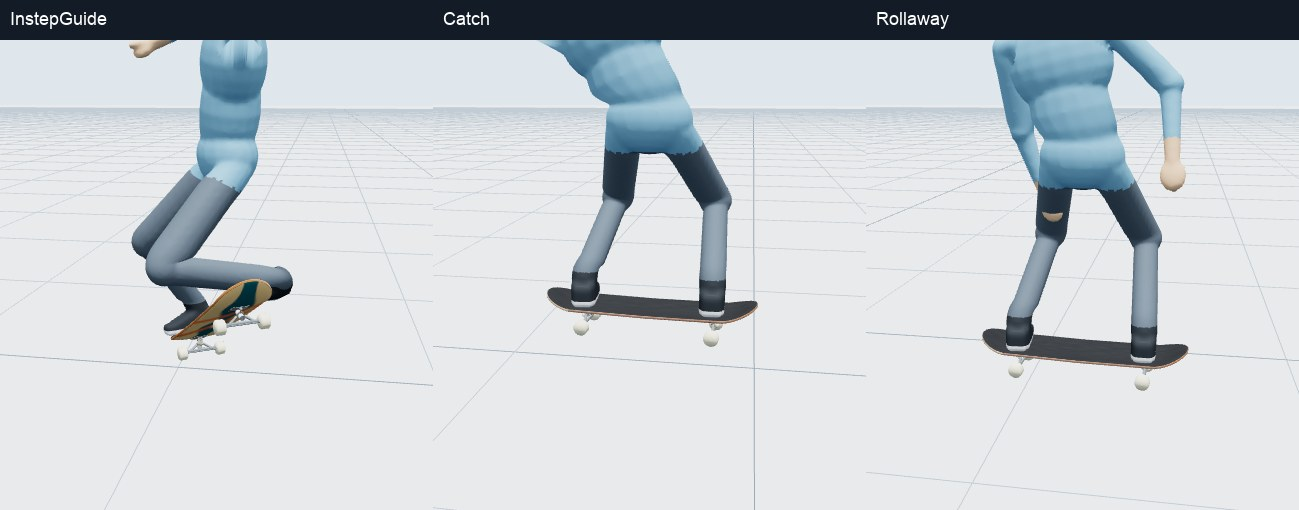
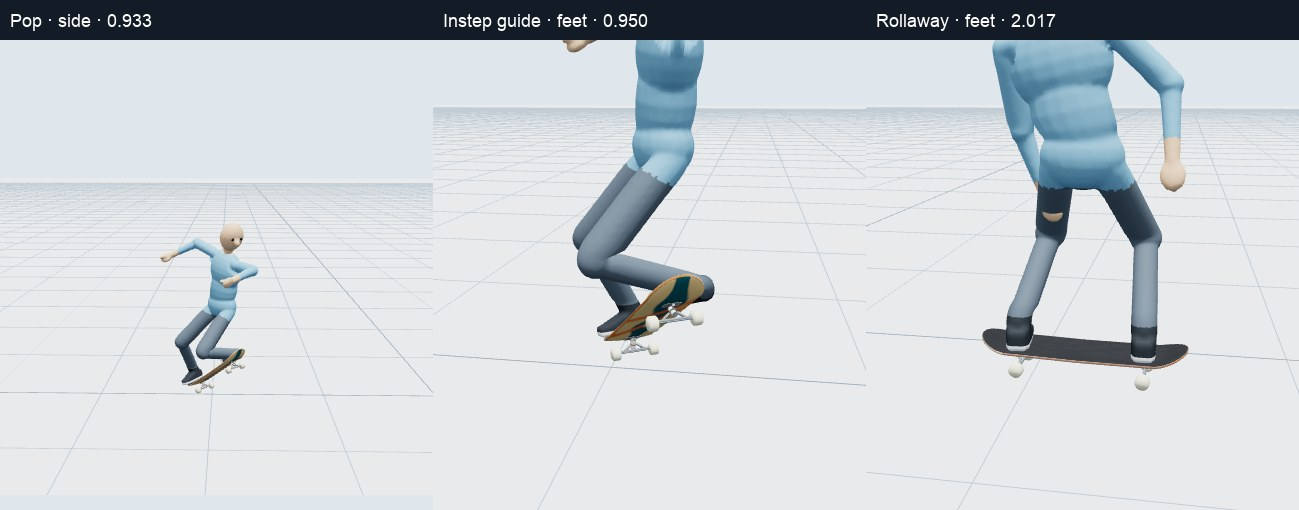
Refresh BS180 rig sheets for focused pop and wind-up review

diff --git a/docs/review-media/a2-bs180/README.md b/docs/review-media/a2-bs180/README.md
@@ -1,6 +1,6 @@
 # A2 normal BS180 — original rig review media
 
-[Private interactive comparison, 1× and ¼×](http://127.0.0.1:63761/a2-bs180/)
+[Private interactive comparison, 1× and ¼×](http://127.0.0.1:63761/a2-bs180-pop-arm/)
 uses the original rig, frozen skin and complete shaped thirteen-part skateboard.
 The source is the genuine plain normal Goofy BS180 by Wes Kremer in
 [The Berrics BATB6 Round1](https://www.youtube.com/watch?v=i8jPt6jHk98&t=44),
@@ -19,7 +19,9 @@ Air, Catch, actual Land, Rollaway and ordinary End.
 | Regular / anatomical Left foot leading | [Phase sheet](bs180-normal-physical-regular.jpg) | [Phase sheet](bs180-low-physical-regular.jpg) |
 | Goofy / anatomical Right foot leading | [Phase sheet](bs180-normal-physical-goofy.jpg) | [Phase sheet](bs180-low-physical-goofy.jpg) |
 
-| Physical mesh stance | Normal guide / catch / rollaway | Low guide / catch / rollaway |
+The contact sheets show a side-view Pop, then guide and rollaway foot details.
+
+| Physical mesh stance | Normal side pop / guide / rollaway | Low side pop / guide / rollaway |
 |---|---|---|
 | Regular | [Foot close-ups](bs180-normal-physical-regular-feet.jpg) | [Foot close-ups](bs180-low-physical-regular-feet.jpg) |
 | Goofy | [Foot close-ups](bs180-normal-physical-goofy-feet.jpg) | [Foot close-ups](bs180-low-physical-goofy-feet.jpg) |
@@ -41,16 +43,30 @@ in all four cases. The60Hz body retains36/36 normal-air frames and34/34 low-air
 frames, then reaches ordinary Ground at4s. The32 individual render phases
 come from those actual replay GLBs, with no render-only pose edits. Test-only
 approval and generated models remain private; raw `reviewed=false` is retained.
-The private browser review reaches4s at both1× and¼× in all four cases;
-28 phase selections use live decoded source video, and12 guide/catch/rollaway
-foot views have no browser runtime errors. Self-inspection confirms a loaded
-ground pose, an airborne rider/board half-turn with the board near the shoes,
-a bent-knee actual landing and ordinary upright recovery. These checks do
-not promote the pack or replace Claude's independent visual judgement.
+Root's independent private browser review reaches4s at both1× and¼× in all
+four cases, with28 decoded source phase selections and no browser runtime
+errors. Root also captured12 side-Pop, guide-foot and rollaway-foot views;
+these make the four contact sheets. Playback and contact-capture checks
+were performed independently by Root; the author checked the managed
+replays and visually inspected the rendered/source comparisons.
 
-Source commits: `dd98d0e` and `017dcd9`.
+The author inspected the original-rig phase sheets beside the reference and
+Root's contact captures: loaded ground pose, one airborne body-and-board
+half-turn without a flip, bent actual landing and ordinary recovery. The
+review correction opens the lead wind-up away from the head and lowers the
+held guide ankle, with a small leg-driven extension. The first four phase
+sheets retain exactly the previous fixed camera. Its Regular Pop/Guide view
+still foreshortens the deck almost end-on; the side-Pop contact panel is an
+explicit additional angle. This is a bounded candidate for Claude's visual
+gate, not a claim that nominal pitch resolves that projection or that the
+trick is offline approved. Air54 onward, catch, land and recovery retain
+their accepted source poses, board and contact timing.
+
+Source correction commits: `69b86b7` and `776487a`.
 Raw source pack SHA256:
[1 lines of base64/hex data omitted]
-Exact route freeze: `e3d34ec0436789073694b2ab6c5e03b994a15d78`.
-Claude owns the offline judgement and library status. Native Rust/Shadow
-selection, controls and gameplay remain a separate pending gate.
[1 lines of base64/hex data omitted]
+The actual managed replay binds unchanged current-main C# at
+`d0228f0f4607eb94a24622e1e427704ae19291b7`; the original exact BS180 route
+is retained. Claude owns the offline judgement and library status. Raw
+`reviewed=false` remains unchanged. Native Rust/Shadow selection, controls
+and gameplay remain a separate pending gate.
